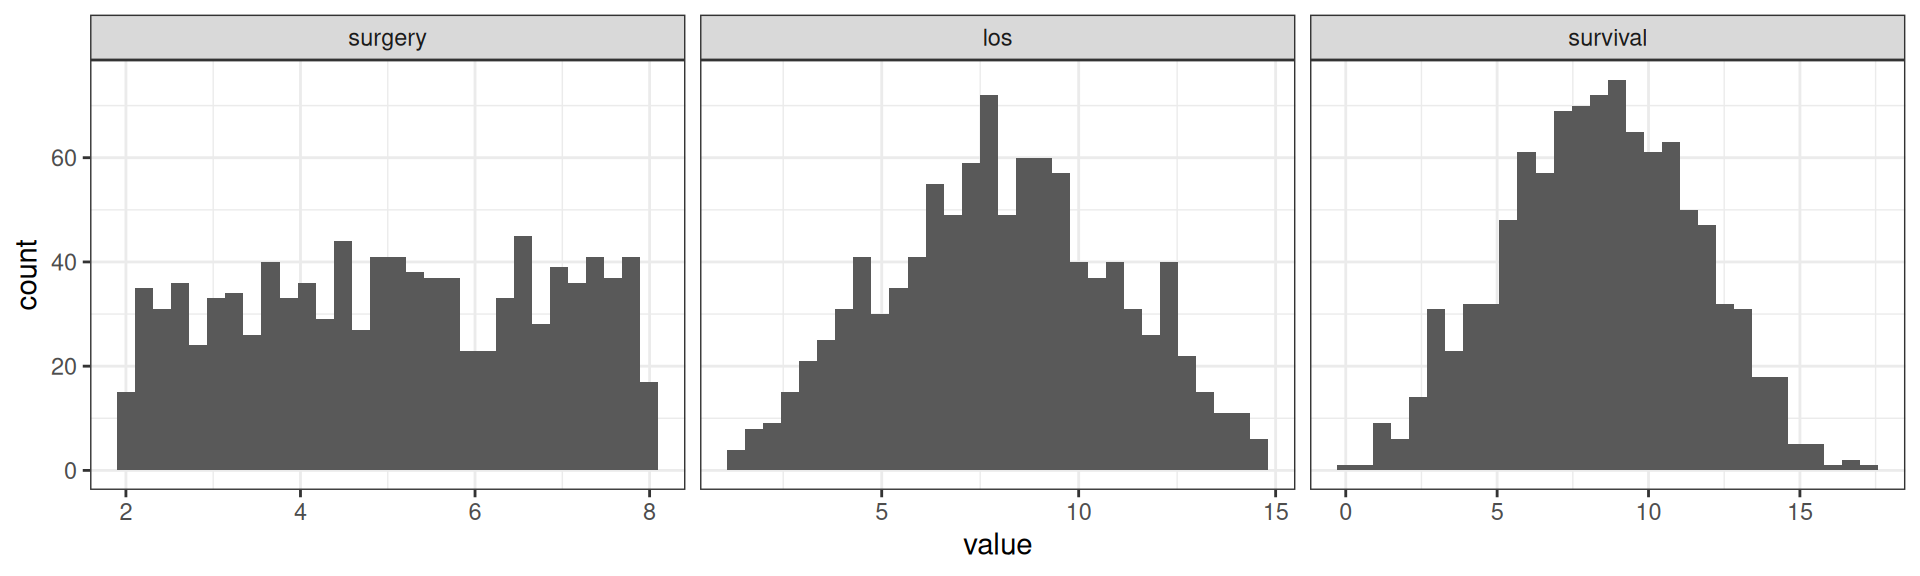
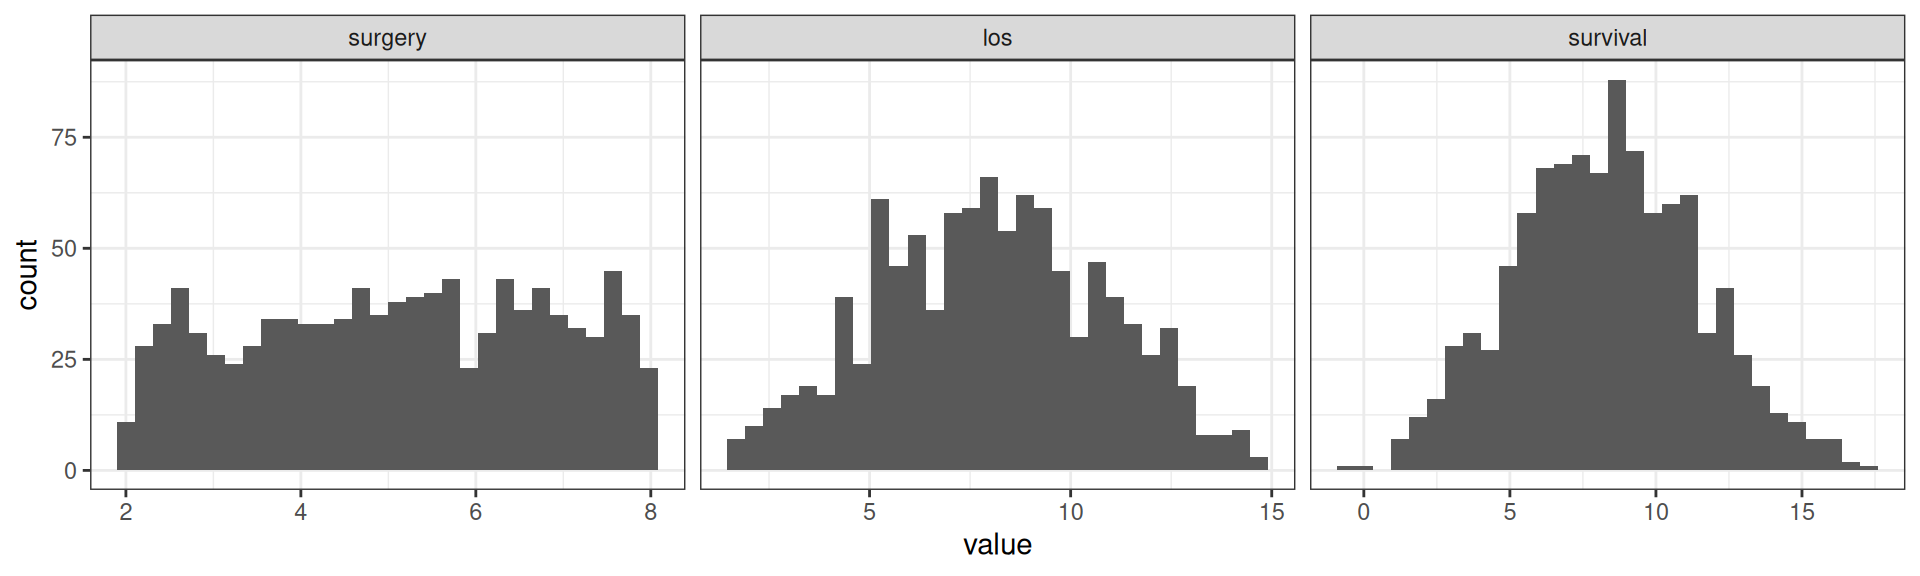
Built site for gh-pages

diff --git a/lectures/day2-scms/lec3-scms.html b/lectures/day2-scms/lec3-scms.html
@@ -512,7 +512,7 @@ Qs:
 <div class="cell fragment" data-execute="false">
 <div class="cell-output cell-output-stdout">
 <pre><code> u_surgery      u_los u_survival 
-  5.081565   2.837682  10.127261 </code></pre>
+  6.592265   2.148029   8.796806 </code></pre>
 </div>
 </div>
 </div>
@@ -537,7 +537,7 @@ Figure&nbsp;1: 1000 random samples of U
 <div class="cell fragment" data-execute="true">
 <div class="cell-output cell-output-stdout">
 <pre><code> u_surgery      u_los u_survival    surgery        los   survival 
-  3.059354   2.619146  11.098597   3.059354   5.678500  10.658389 </code></pre>
+ 4.7126704  0.9847244 10.9490171  4.7126704  5.6973948  7.2210711 </code></pre>
 </div>
 </div>
 <div class="fragment">
@@ -586,9 +586,9 @@ Figure&nbsp;2: Realisations of endogenous variables V over random samples of U i
 <div class="cell-output cell-output-stdout">
 <pre><code>       model mean_survival
       &lt;char&gt;         &lt;num&gt;
-1:      scm1      8.395415
-2: submodel3      3.344834
-3: submodel7      7.344834</code></pre>
+1:      scm1      8.311616
+2: submodel3      3.284198
+3: submodel7      7.284198</code></pre>
 </div>
 </div>
 </section></section>
@@ -891,8 +891,8 @@ The causal effect of $X$ on $Y$ is identifiable from a graph $G$ if the quantity
 <ul>
 <li class="fragment">Average causal effects in subgroup with <code>surgery=4</code>:
 <ul>
-<li class="fragment">3-days LOS: 5.5</li>
-<li class="fragment">7-days LOS: 9.5</li>
+<li class="fragment">3-days LOS: 5.6</li>
+<li class="fragment">7-days LOS: 9.6</li>
 </ul></li>
 </ul>
 <div class="fragment">
